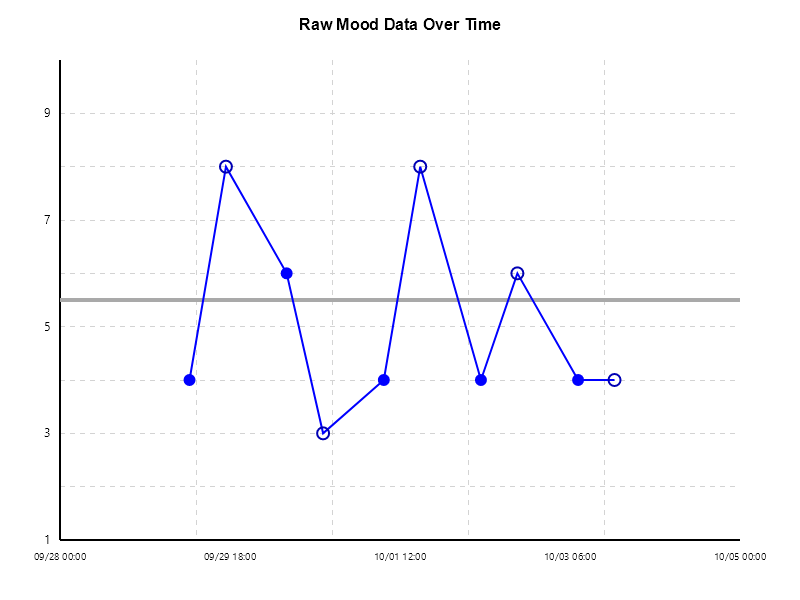
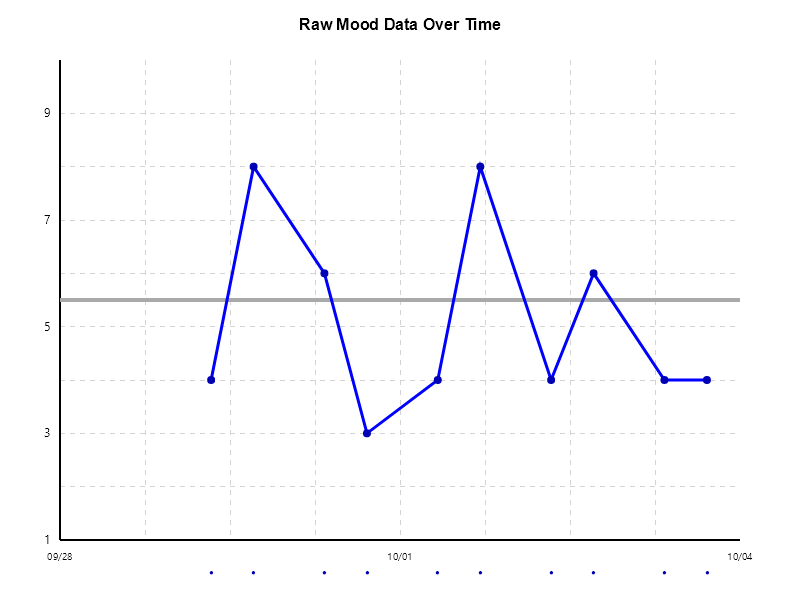
Update LineGraphServiceApprovalTests to use SimpleLineGraphService for generating raw graphs

diff --git a/WorkMood.MauiApp.Tests/Services/LineGraphServiceApprovalTests.cs b/WorkMood.MauiApp.Tests/Services/LineGraphServiceApprovalTests.cs
@@ -277,8 +277,8 @@ public class LineGraphServiceApprovalTests
         var dateRange = new DateRangeInfo(DateRange.Last7Days, new FakeDateShim(today));
 
         // Act
-        var imageBytes = await _lineGraphService.GenerateRawDataGraphAsync(
-            MoodDataTestHelper.ConvertToRawMoodDataPoints(data),
+        var imageBytes = await _simpleLineGraphService.GenerateRawGraphAsync(
+            data,
             dateRange, 
             showDataPoints: true, 
             showAxesAndGrid: true, 
